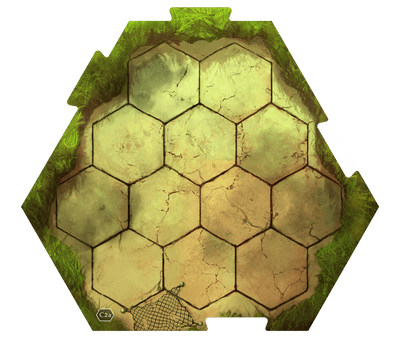
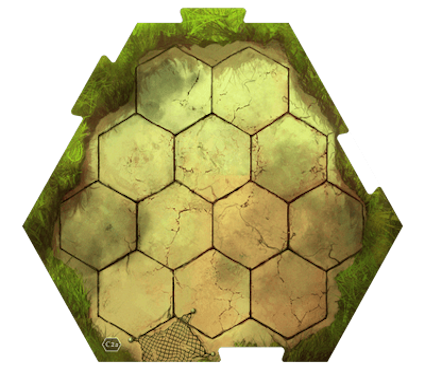
Adds C tiles and normalizes them

diff --git a/static/scss/main.scss b/static/scss/main.scss
@@ -60,6 +60,11 @@ $hexRotation: 60deg;
             ('b3b', -21px, -53px)
             ('b4a', -21px, -53px)
             ('b4b', -21px, -53px)
+
+            ('c1a', -61px, -42px)
+            ('c1b', -61px, -42px)
+            ('c2a', -61px, -42px)
+            ('c2b', -61px, -42px)
         ;
         @each $tile in $tiles {
             $key: nth($tile, 1);
@@ -81,6 +86,15 @@ $hexRotation: 60deg;
                 width: 100%;
                 height: 100%;
                 clip-path: polygon(50% 0%, 100% 25%, 100% 75%, 50% 100%, 0% 75%, 0% 25%);
+
+                &.passable {
+                    background-color: rgba(0, 0, 255, 0.75);
+                    opacity: 0.5;
+                }
+
+                &.impassable {
+                    background-color: rgba(255, 0, 0, 0.75);
+                }
 
                 .player {
                     width: 100%;
